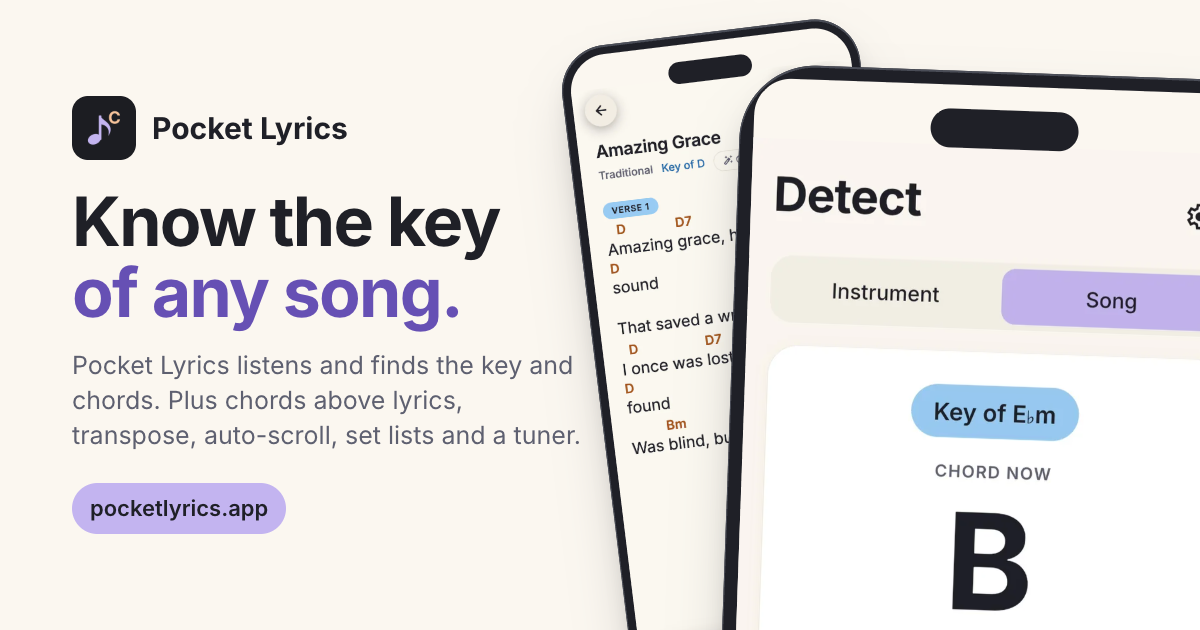
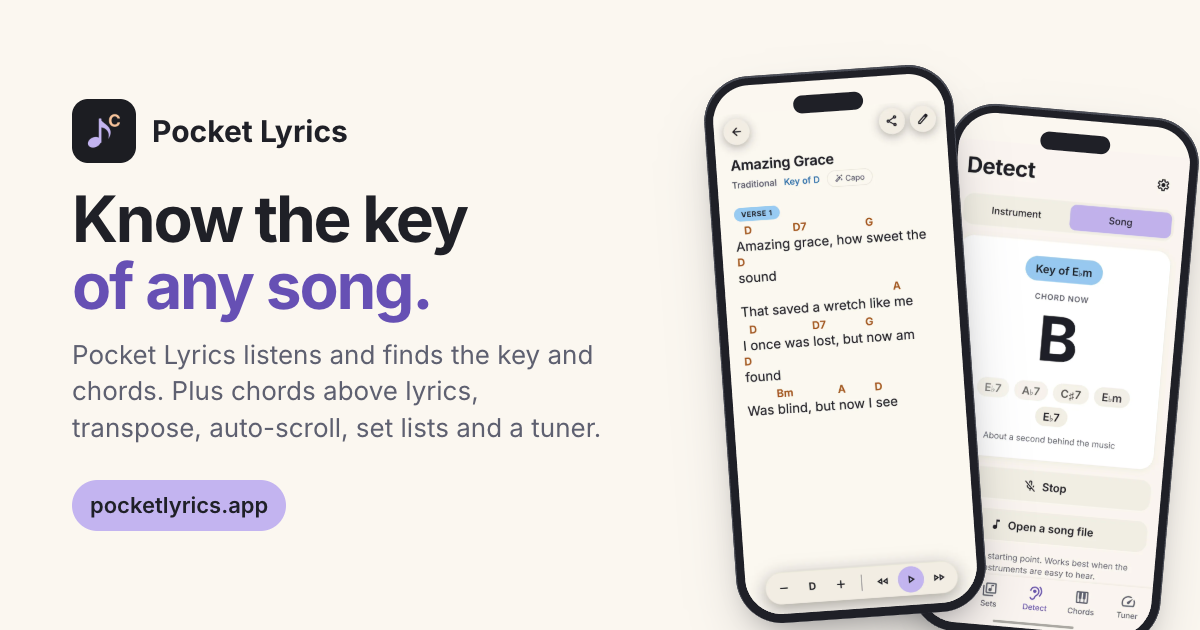
Share image: back to the original two-phone layout, Detect behind
Amazing Grace in front, the real Detect Song-mode screen where the set list
was, same sizes, angles and positions as the first og.png. Headline and
subtitle unchanged from the previous commit.

Changed region(s): [[0.0617, 0.0302, 1.0, 1.0], [0.0617, 0.754, 0.2467, 0.8746], [0.0617, 0.1508, 0.3083, 0.2714]]

diff --git a/index.html b/index.html
@@ -17,13 +17,13 @@
   <meta property="og:image" content="https://pocketlyrics.app/assets/og-key.png">
   <meta property="og:image:width" content="1200">
   <meta property="og:image:height" content="630">
-  <meta property="og:image:alt" content="Pocket Lyrics: Know the key of any song. The Detect screen showing Key of E♭m, in front of the Amazing Grace song screen.">
+  <meta property="og:image:alt" content="Pocket Lyrics: Know the key of any song. The Amazing Grace song screen in front of the Detect screen showing Key of E♭m.">
   <meta name="apple-itunes-app" content="app-id=6832144730">
   <meta name="twitter:card" content="summary_large_image">
   <meta name="twitter:title" content="Pocket Lyrics – chords and lyrics app for musicians and worship teams">
   <meta name="twitter:description" content="Know the key of any song: Pocket Lyrics listens and finds the key and chords. Plus chords above lyrics, transpose, capo, auto-scroll, set lists and a tuner. Free on Google Play and the App Store.">
   <meta name="twitter:image" content="https://pocketlyrics.app/assets/og-key.png">
-  <meta name="twitter:image:alt" content="Pocket Lyrics: Know the key of any song. The Detect screen showing Key of E♭m, in front of the Amazing Grace song screen.">
+  <meta name="twitter:image:alt" content="Pocket Lyrics: Know the key of any song. The Amazing Grace song screen in front of the Detect screen showing Key of E♭m.">
   <link rel="icon" href="/favicon.ico" sizes="48x48">
   <link rel="icon" href="/assets/icons/icon-192.png" type="image/png" sizes="192x192">
   <link rel="apple-touch-icon" href="/assets/icons/icon-180.png">

diff --git a/pricing/index.html b/pricing/index.html
@@ -17,13 +17,13 @@
   <meta property="og:image" content="https://pocketlyrics.app/assets/og-key.png">
   <meta property="og:image:width" content="1200">
   <meta property="og:image:height" content="630">
-  <meta property="og:image:alt" content="Pocket Lyrics: Know the key of any song. The Detect screen showing Key of E♭m, in front of the Amazing Grace song screen.">
+  <meta property="og:image:alt" content="Pocket Lyrics: Know the key of any song. The Amazing Grace song screen in front of the Detect screen showing Key of E♭m.">
   <meta name="apple-itunes-app" content="app-id=6832144730">
   <meta name="twitter:card" content="summary_large_image">
   <meta name="twitter:title" content="Pricing – free chords and lyrics app, Pro from US$2.99 | Pocket Lyrics">
   <meta name="twitter:description" content="Pocket Lyrics is free for up to 10 songs. Pro is US$2.99 a month or US$19.99 a year with a 3-day free trial for new subscribers: unlimited songs, chord detection, chord charts and PDF export.">
   <meta name="twitter:image" content="https://pocketlyrics.app/assets/og-key.png">
-  <meta name="twitter:image:alt" content="Pocket Lyrics: Know the key of any song. The Detect screen showing Key of E♭m, in front of the Amazing Grace song screen.">
+  <meta name="twitter:image:alt" content="Pocket Lyrics: Know the key of any song. The Amazing Grace song screen in front of the Detect screen showing Key of E♭m.">
   <link rel="icon" href="/favicon.ico" sizes="48x48">
   <link rel="icon" href="/assets/icons/icon-192.png" type="image/png" sizes="192x192">
   <link rel="apple-touch-icon" href="/assets/icons/icon-180.png">

diff --git a/features/index.html b/features/index.html
@@ -17,13 +17,13 @@
   <meta property="og:image" content="https://pocketlyrics.app/assets/og-key.png">
   <meta property="og:image:width" content="1200">
   <meta property="og:image:height" content="630">
-  <meta property="og:image:alt" content="Pocket Lyrics: Know the key of any song. The Detect screen showing Key of E♭m, in front of the Amazing Grace song screen.">
+  <meta property="og:image:alt" content="Pocket Lyrics: Know the key of any song. The Amazing Grace song screen in front of the Detect screen showing Key of E♭m.">
   <meta name="apple-itunes-app" content="app-id=6832144730">
   <meta name="twitter:card" content="summary_large_image">
   <meta name="twitter:title" content="Features – transpose chords, set lists, auto-scroll and tuner | Pocket Lyrics">
   <meta name="twitter:description" content="Chords over lyrics, transpose chords and capo, auto-scroll, set lists for worship teams and gigs, chord detection, a chords library for guitar and keyboard, and a built-in tuner.">
   <meta name="twitter:image" content="https://pocketlyrics.app/assets/og-key.png">
-  <meta name="twitter:image:alt" content="Pocket Lyrics: Know the key of any song. The Detect screen showing Key of E♭m, in front of the Amazing Grace song screen.">
+  <meta name="twitter:image:alt" content="Pocket Lyrics: Know the key of any song. The Amazing Grace song screen in front of the Detect screen showing Key of E♭m.">
   <link rel="icon" href="/favicon.ico" sizes="48x48">
   <link rel="icon" href="/assets/icons/icon-192.png" type="image/png" sizes="192x192">
   <link rel="apple-touch-icon" href="/assets/icons/icon-180.png">

diff --git a/faq/index.html b/faq/index.html
@@ -17,13 +17,13 @@
   <meta property="og:image" content="https://pocketlyrics.app/assets/og-key.png">
   <meta property="og:image:width" content="1200">
   <meta property="og:image:height" content="630">
-  <meta property="og:image:alt" content="Pocket Lyrics: Know the key of any song. The Detect screen showing Key of E♭m, in front of the Amazing Grace song screen.">
+  <meta property="og:image:alt" content="Pocket Lyrics: Know the key of any song. The Amazing Grace song screen in front of the Detect screen showing Key of E♭m.">
   <meta name="apple-itunes-app" content="app-id=6832144730">
   <meta name="twitter:card" content="summary_large_image">
   <meta name="twitter:title" content="FAQ – chords and lyrics app questions | Pocket Lyrics">
   <meta name="twitter:description" content="Answers about Pocket Lyrics: adding and importing songs, transpose chords and capo, set lists for worship teams, offline use, sync, Pro pricing, the free trial and cancelling.">
   <meta name="twitter:image" content="https://pocketlyrics.app/assets/og-key.png">
-  <meta name="twitter:image:alt" content="Pocket Lyrics: Know the key of any song. The Detect screen showing Key of E♭m, in front of the Amazing Grace song screen.">
+  <meta name="twitter:image:alt" content="Pocket Lyrics: Know the key of any song. The Amazing Grace song screen in front of the Detect screen showing Key of E♭m.">
   <link rel="icon" href="/favicon.ico" sizes="48x48">
   <link rel="icon" href="/assets/icons/icon-192.png" type="image/png" sizes="192x192">
   <link rel="apple-touch-icon" href="/assets/icons/icon-180.png">

diff --git a/manage-subscription/index.html b/manage-subscription/index.html
@@ -17,13 +17,13 @@
   <meta property="og:image" content="https://pocketlyrics.app/assets/og-key.png">
   <meta property="og:image:width" content="1200">
   <meta property="og:image:height" content="630">
-  <meta property="og:image:alt" content="Pocket Lyrics: Know the key of any song. The Detect screen showing Key of E♭m, in front of the Amazing Grace song screen.">
+  <meta property="og:image:alt" content="Pocket Lyrics: Know the key of any song. The Amazing Grace song screen in front of the Detect screen showing Key of E♭m.">
   <meta name="apple-itunes-app" content="app-id=6832144730">
   <meta name="twitter:card" content="summary_large_image">
   <meta name="twitter:title" content="Manage or cancel your subscription | Pocket Lyrics">
   <meta name="twitter:description" content="How to manage or cancel your Pocket Lyrics Pro subscription on Android (Google Play) and on iPhone or iPad (App Store), step by step.">
   <meta name="twitter:image" content="https://pocketlyrics.app/assets/og-key.png">
-  <meta name="twitter:image:alt" content="Pocket Lyrics: Know the key of any song. The Detect screen showing Key of E♭m, in front of the Amazing Grace song screen.">
+  <meta name="twitter:image:alt" content="Pocket Lyrics: Know the key of any song. The Amazing Grace song screen in front of the Detect screen showing Key of E♭m.">
   <link rel="icon" href="/favicon.ico" sizes="48x48">
   <link rel="icon" href="/assets/icons/icon-192.png" type="image/png" sizes="192x192">
   <link rel="apple-touch-icon" href="/assets/icons/icon-180.png">

diff --git a/privacy/index.html b/privacy/index.html
@@ -17,13 +17,13 @@
   <meta property="og:image" content="https://pocketlyrics.app/assets/og-key.png">
   <meta property="og:image:width" content="1200">
   <meta property="og:image:height" content="630">
-  <meta property="og:image:alt" content="Pocket Lyrics: Know the key of any song. The Detect screen showing Key of E♭m, in front of the Amazing Grace song screen.">
+  <meta property="og:image:alt" content="Pocket Lyrics: Know the key of any song. The Amazing Grace song screen in front of the Detect screen showing Key of E♭m.">
   <meta name="apple-itunes-app" content="app-id=6832144730">
   <meta name="twitter:card" content="summary_large_image">
   <meta name="twitter:title" content="Privacy Policy | Pocket Lyrics">
   <meta name="twitter:description" content="How Pocket Lyrics handles your information: your email address and your songs, stored so they sync. No ads, no analytics, no tracking.">
   <meta name="twitter:image" content="https://pocketlyrics.app/assets/og-key.png">
-  <meta name="twitter:image:alt" content="Pocket Lyrics: Know the key of any song. The Detect screen showing Key of E♭m, in front of the Amazing Grace song screen.">
+  <meta name="twitter:image:alt" content="Pocket Lyrics: Know the key of any song. The Amazing Grace song screen in front of the Detect screen showing Key of E♭m.">
   <link rel="icon" href="/favicon.ico" sizes="48x48">
   <link rel="icon" href="/assets/icons/icon-192.png" type="image/png" sizes="192x192">
   <link rel="apple-touch-icon" href="/assets/icons/icon-180.png">

diff --git a/support/index.html b/support/index.html
@@ -17,13 +17,13 @@
   <meta property="og:image" content="https://pocketlyrics.app/assets/og-key.png">
   <meta property="og:image:width" content="1200">
   <meta property="og:image:height" content="630">
-  <meta property="og:image:alt" content="Pocket Lyrics: Know the key of any song. The Detect screen showing Key of E♭m, in front of the Amazing Grace song screen.">
+  <meta property="og:image:alt" content="Pocket Lyrics: Know the key of any song. The Amazing Grace song screen in front of the Detect screen showing Key of E♭m.">
   <meta name="apple-itunes-app" content="app-id=6832144730">
   <meta name="twitter:card" content="summary_large_image">
   <meta name="twitter:title" content="Support | Pocket Lyrics">
   <meta name="twitter:description" content="Get help with Pocket Lyrics: email support@goodmarklabs.com, manage or cancel your subscription, reset your password or delete your account.">
   <meta name="twitter:image" content="https://pocketlyrics.app/assets/og-key.png">
-  <meta name="twitter:image:alt" content="Pocket Lyrics: Know the key of any song. The Detect screen showing Key of E♭m, in front of the Amazing Grace song screen.">
+  <meta name="twitter:image:alt" content="Pocket Lyrics: Know the key of any song. The Amazing Grace song screen in front of the Detect screen showing Key of E♭m.">
   <link rel="icon" href="/favicon.ico" sizes="48x48">
   <link rel="icon" href="/assets/icons/icon-192.png" type="image/png" sizes="192x192">
   <link rel="apple-touch-icon" href="/assets/icons/icon-180.png">

diff --git a/terms/index.html b/terms/index.html
@@ -17,13 +17,13 @@
   <meta property="og:image" content="https://pocketlyrics.app/assets/og-key.png">
   <meta property="og:image:width" content="1200">
   <meta property="og:image:height" content="630">
-  <meta property="og:image:alt" content="Pocket Lyrics: Know the key of any song. The Detect screen showing Key of E♭m, in front of the Amazing Grace song screen.">
+  <meta property="og:image:alt" content="Pocket Lyrics: Know the key of any song. The Amazing Grace song screen in front of the Detect screen showing Key of E♭m.">
   <meta name="apple-itunes-app" content="app-id=6832144730">
   <meta name="twitter:card" content="summary_large_image">
   <meta name="twitter:title" content="Terms of Use | Pocket Lyrics">
   <meta name="twitter:description" content="The terms for using the Pocket Lyrics app and website, including your content, subscriptions, free trial, renewal and cancelling.">
   <meta name="twitter:image" content="https://pocketlyrics.app/assets/og-key.png">
-  <meta name="twitter:image:alt" content="Pocket Lyrics: Know the key of any song. The Detect screen showing Key of E♭m, in front of the Amazing Grace song screen.">
+  <meta name="twitter:image:alt" content="Pocket Lyrics: Know the key of any song. The Amazing Grace song screen in front of the Detect screen showing Key of E♭m.">
   <link rel="icon" href="/favicon.ico" sizes="48x48">
   <link rel="icon" href="/assets/icons/icon-192.png" type="image/png" sizes="192x192">
   <link rel="apple-touch-icon" href="/assets/icons/icon-180.png">

diff --git a/404.html b/404.html
@@ -17,13 +17,13 @@
   <meta property="og:image" content="https://pocketlyrics.app/assets/og-key.png">
   <meta property="og:image:width" content="1200">
   <meta property="og:image:height" content="630">
-  <meta property="og:image:alt" content="Pocket Lyrics: Know the key of any song. The Detect screen showing Key of E♭m, in front of the Amazing Grace song screen.">
+  <meta property="og:image:alt" content="Pocket Lyrics: Know the key of any song. The Amazing Grace song screen in front of the Detect screen showing Key of E♭m.">
   <meta name="apple-itunes-app" content="app-id=6832144730">
   <meta name="twitter:card" content="summary_large_image">
   <meta name="twitter:title" content="Page not found | Pocket Lyrics">
   <meta name="twitter:description" content="This page could not be found.">
   <meta name="twitter:image" content="https://pocketlyrics.app/assets/og-key.png">
-  <meta name="twitter:image:alt" content="Pocket Lyrics: Know the key of any song. The Detect screen showing Key of E♭m, in front of the Amazing Grace song screen.">
+  <meta name="twitter:image:alt" content="Pocket Lyrics: Know the key of any song. The Amazing Grace song screen in front of the Detect screen showing Key of E♭m.">
   <link rel="icon" href="/favicon.ico" sizes="48x48">
   <link rel="icon" href="/assets/icons/icon-192.png" type="image/png" sizes="192x192">
   <link rel="apple-touch-icon" href="/assets/icons/icon-180.png">

diff --git a/README.md b/README.md
@@ -21,6 +21,6 @@ Plain HTML and CSS: no build step, no scripts, no analytics, cookies or trackers
 - **Privacy and Terms** are copies of the pages in the `goodmark-website` repo (`pocket-lyrics/privacy`, `pocket-lyrics/terms`), which are the masters. Copy the `<article>` and the "On this page" list across unchanged when they change, keeping the effective date; only link targets differ (`/privacy/`, `/terms/`, and the delete-account page on goodmarklabs.com).
 - **Screenshots** in `assets/img/` are real captures of the released app (phone size, light mode, sample public-domain songs). Never use drawn or AI-generated screens. Each is WebP at 390 and 780 px wide plus a 780 px JPEG, shown inside the CSS phone frame (`.phone`).
 - **Store badges** are the official artwork, unaltered: `assets/badges/google-play.png` and `assets/badges/app-store.svg` (from Apple's marketing tools).
-- `assets/og-key.png` (1200 x 630) is the link preview image, laid out in HTML from the real Detect (Song mode) and song screenshots. Give a new image a new file name so Facebook and WhatsApp drop their cached copy.
+- `assets/og-key.png` (1200 x 630) is the link preview image, laid out in HTML from the real Amazing Grace song and Detect (Song mode) screenshots. Give a new image a new file name so Facebook and WhatsApp drop their cached copy.
 - Update `sitemap.xml` when a page is added, and bump `?v=` on `site.css` in every page when the CSS changes.
 - `.nojekyll` makes GitHub Pages serve the files as they are.
